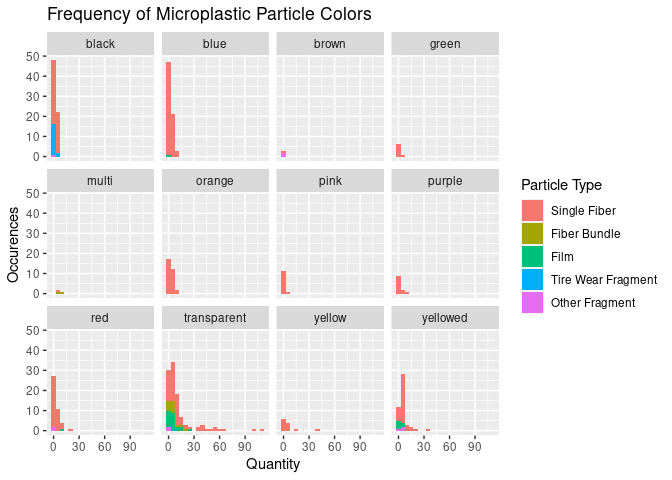
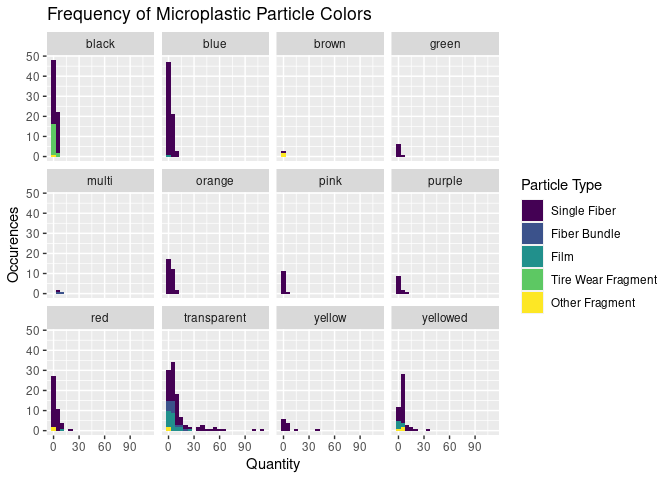
Fix legend on color histogram

diff --git a/plastics_analysis.md b/plastics_analysis.md
@@ -195,12 +195,13 @@ fish_microplastics %>%
 ``` r
 # color.labs <- c("Black", "Blue", "Brown", "Green", "Multi", "Orange", "Pink", "Purple", "Red", "Transparent", "Yellow", "Yellowed")
 # names(color.labs) <- c("Black", "Blue", "Brown", "Green", "Multi", "Orange", "Pink", "Purple", "Red", "Transparent", "Yellow", "Yellowed")
+
 fish_microplastics %>%
   drop_na(particle_type) %>%
   ggplot(aes(x = quantity, fill = fct_relevel(particle_type, "Fiber_single", "Fiber_bundle", "Film", "Fragment_TWP", "Fragment_nonTWP" ))) +
   geom_histogram(binwidth = 5) + 
   facet_wrap(~color) +
-  scale_fill_discrete(labels = c("Single Fiber", "Fiber Bundle", "Film", "Tire Wear Fragment", "Other Fragment")) +
+  scale_fill_viridis_d(labels = c("Single Fiber", "Fiber Bundle", "Film", "Tire Wear Fragment", "Other Fragment")) +
   labs(x = "Quantity",
        y = "Occurences",
        title = "Frequency of Microplastic Particle Colors",
